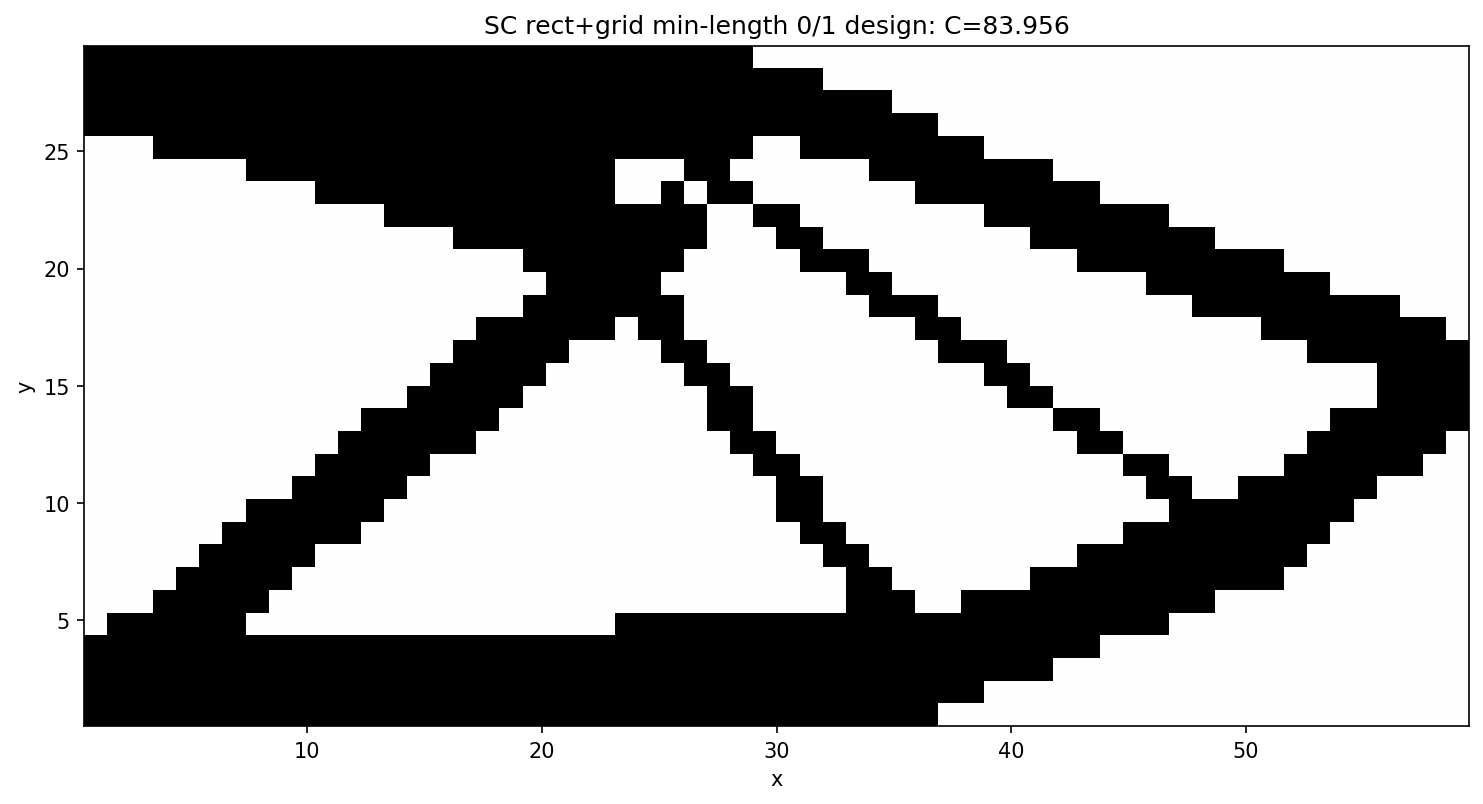
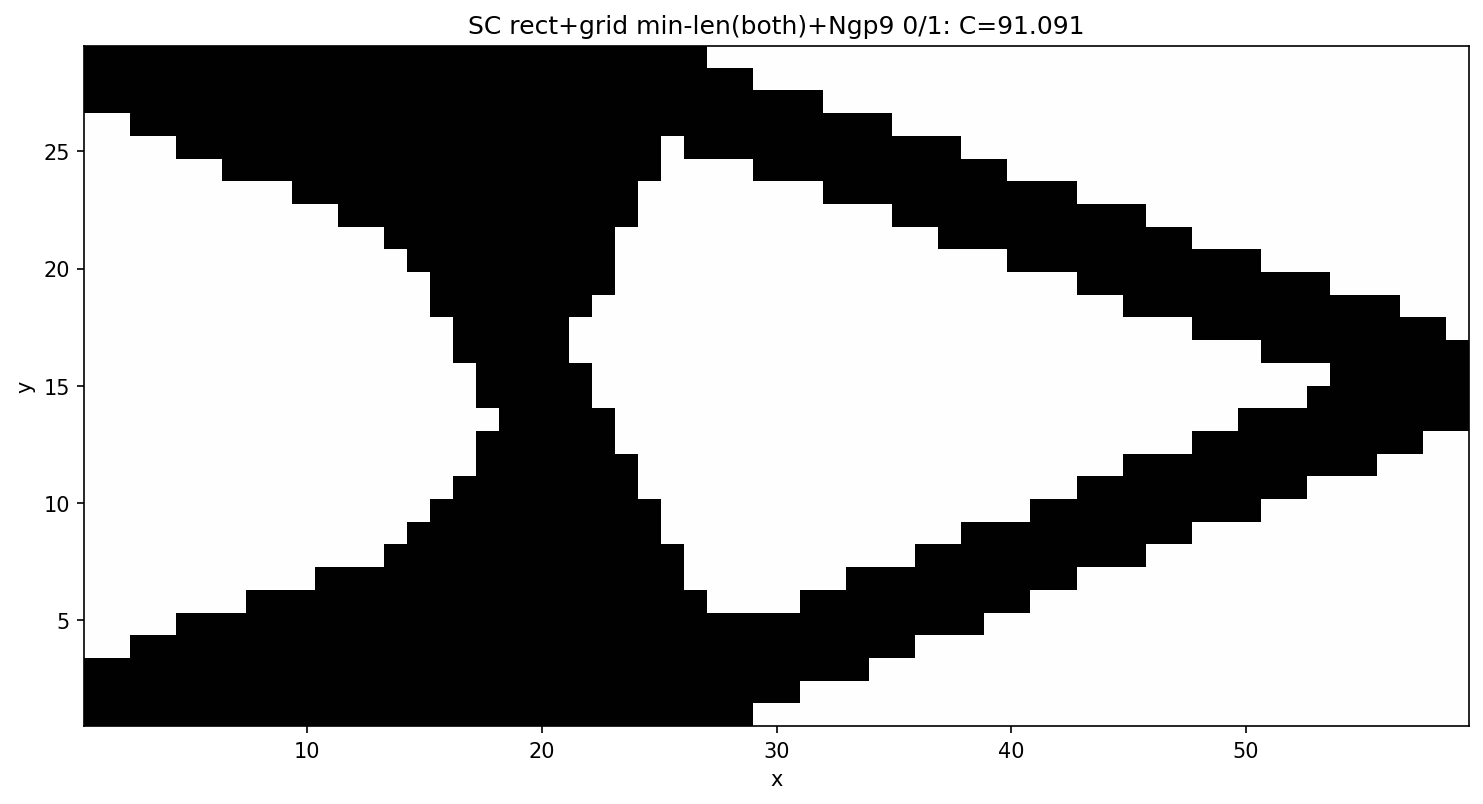
Checkerboard-free 0/1 design: min-3-both-directions + 9 Gauss points
min_thickness on h alone reconnects members (C~84) but a diagonal of perpendicular
thickness 3 still rasterises to a thin staircase -> checkerboard. Bounding L and h
(minimum 3 elements in both directions) plus Ngp=3 (9 Gauss points, proper
sampling-window integration) removes the checkerboard entirely: a fully 0/1,
connected, manufacturable truss at C=91.1 (vol=0.40, pre-threshold gray 0.06).
Update section 4.4 and the figure.

Claude-Session: https://claude.ai/code/session_0139M2jyPc6cJGW33xV6te9t

diff --git a/docs/local_minima_review.md b/docs/local_minima_review.md
@@ -346,17 +346,28 @@ robust ("eta-erode/dilate") formulation.
 |---|---|---|
 | ![grayer](_static/sc2d_rect_grid_continuation.png) | ![sharpened](_static/sc2d_rect_grid_sharp.png) | ![binary](_static/sc2d_rect_grid_binary.png) |
 
-**A clean 0/1 design via a minimum length scale.** The broken-member problem is fixed by
-giving the explicit rectangles a **minimum thickness** (`min_thickness` raises the lower
-bound on `h`). With `min_thickness = 3` elements, members are born thick enough that the
-0.5 threshold keeps them solid and connected: the same grid + sharpening pipeline yields a
-**fully 0/1, connected, manufacturable** truss at **C = 83.96** (vol = 0.40) — versus 96.6
-(disconnected) without it. This is the explicit-geometry analogue of a robust/length-scale
-formulation: rather than filtering densities, we simply forbid sub-resolution members. The
-residual gap to the gray optimum (75.3) is the genuine cost of an exact 0/1 design with a
-3-element minimum feature on a 60×30 mesh. Preset: `short_cantilever_grid_minlen.yaml`.
+**A clean 0/1 design via a minimum length scale + better integration.** A hard threshold
+of the bare design disconnects ~1-element members (C = 96.6). Bounding only the thickness
+`h ≥ 3` reconnects the structure (C ≈ 84) but a *diagonal* member of perpendicular
+thickness 3 still rasterises to a thin staircase, leaving **checkerboard** artifacts. Two
+changes remove them:
 
-![min-length 0/1 design](_static/sc2d_rect_grid_minlen_binary.png)
+1. **minimum 3 elements in *both* directions** — `min_thickness` bounds the rectangle
+   length `L` *and* thickness `h`, so no member is sub-resolution along any axis;
+2. **9 Gauss points** (`Ngp = 3`, vs the default 4) properly integrate the characteristic
+   over each element's sampling window, killing the integration aliasing. (`Ngp` was also
+   silently dropped before the mapper — now wired through.)
+
+The result is a **fully 0/1, connected, checkerboard-free, manufacturable** truss at
+**C = 91.1** (vol = 0.40, gray fraction 0.06 before thresholding). This is the
+explicit-geometry analogue of a robust/length-scale formulation: rather than filtering
+densities we forbid sub-resolution members. The higher compliance is the honest price of a
+clean design with a 3-element minimum feature on a coarse 60×30 mesh — chunky members are
+stiffer to manufacture but less weight-efficient than slender ones; a finer mesh would
+recover efficiency at the same (relative) length scale. Preset:
+`short_cantilever_grid_minlen.yaml`.
+
+![min-length + 9-Gauss-point 0/1 design](_static/sc2d_rect_grid_minlen_binary.png)
 
 | rect grid-fill, single start (C = 92.30) | rect grid-fill + continuation (C = 73.18) |
 |---|---|
